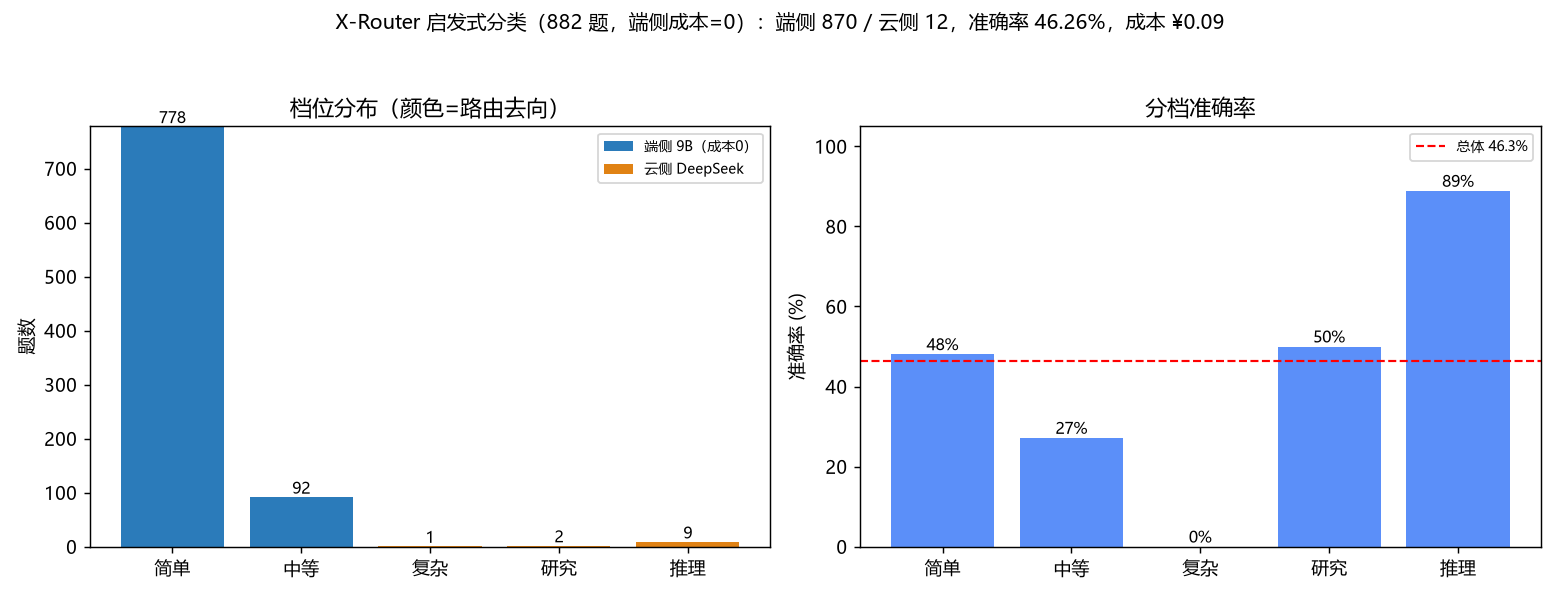
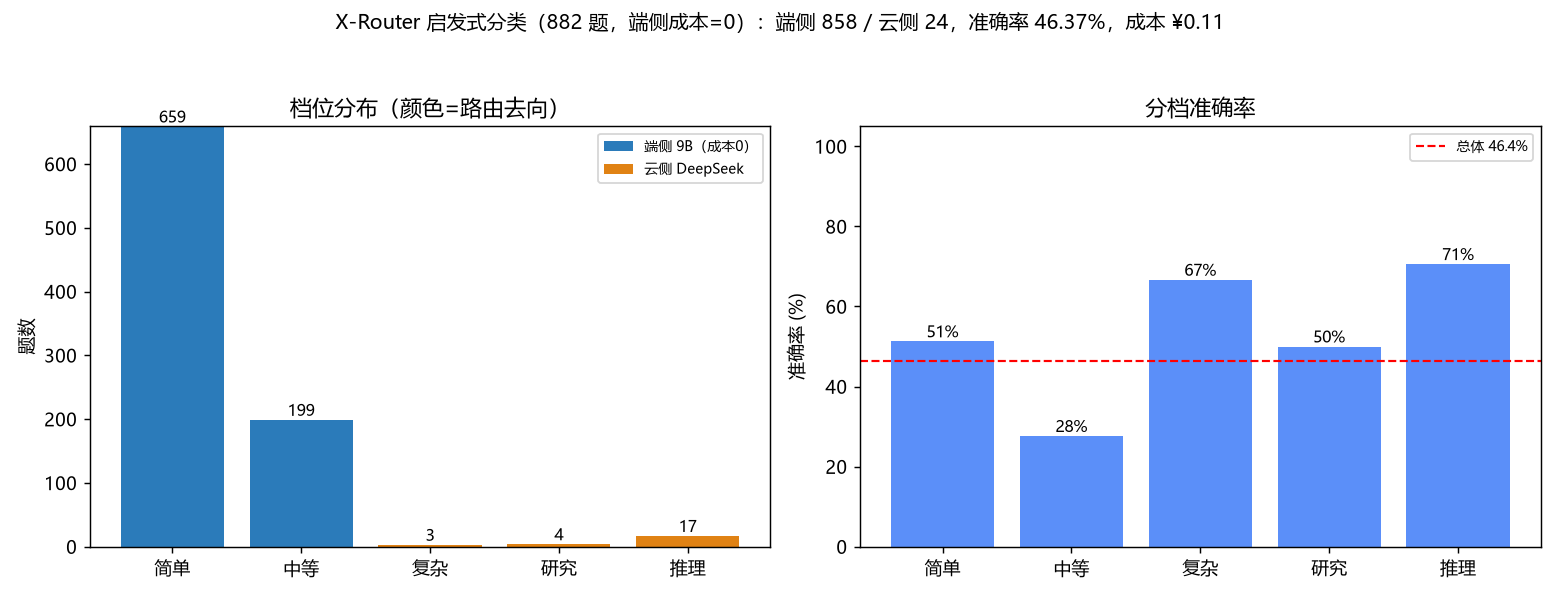
fix(xrouter): heuristic/classifier input origin_query -> prompt (LLMRouterBench convention)

diff --git a/tools/eval_3model_full.py b/tools/eval_3model_full.py
@@ -78,7 +78,9 @@ def main() -> None:
         key = (r.dataset_id, r.record_index)
         qs[key][r.model_name] = r
         if r.model_name == CLOUD_MODEL:
-            meta[key] = r.origin_query or r.prompt
+            # LLMRouterBench 路由基线统一用 record.prompt（完整题干+选项）作为路由输入；
+            # origin_query 对 MCQ 只是题干（缺选项），会低估长度/难度。启发式据此重新评估。
+            meta[key] = r.prompt or r.origin_query
         if (r.category or "").strip():
             cat[key] = r.category.strip()
 

diff --git a/tools/run_xrouter_classifier.py b/tools/run_xrouter_classifier.py
@@ -111,7 +111,8 @@ def load_questions():
     records = [r for r in loader.load_all_records() if r.model_name == CANONICAL_MODEL]
     seen = {}
     for r in records:
-        seen.setdefault((r.dataset_id, r.record_index), r.origin_query or r.prompt)
+        # LLMRouterBench 路由基线统一用 record.prompt（完整题干+选项）作分类输入
+        seen.setdefault((r.dataset_id, r.record_index), r.prompt or r.origin_query)
     return seen
 
 

diff --git a/tools/eval_device_llm_router_3model.py b/tools/eval_device_llm_router_3model.py
@@ -61,7 +61,7 @@ def load_questions(records):
             continue
         key = (r.dataset_id, r.record_index)
         questions[key][r.model_name] = r
-        meta.setdefault(key, r.origin_query or r.prompt)
+        meta.setdefault(key, r.prompt or r.origin_query)
     return questions, meta
 
 

diff --git a/docs/edge_router_3model_eval_report.md b/docs/edge_router_3model_eval_report.md
@@ -69,7 +69,7 @@
 | 方案 | 准确率 | 总成本 (¥) | n | 备注 |
 |---|---|---|---|---|
 | **X-Router（4B 分类器，MEDIUM）** | **58.62%** | **3.245** | 882 | 端侧 527 / 云侧 355 |
-| X-Router（启发式分类器，MEDIUM） | 46.26% | 0.086 | 882 | 端侧 870 / 云侧 12 |
+| X-Router（启发式分类器，MEDIUM） | 46.37% | 0.1095 | 882 | 端侧 858 / 云侧 24 |
 | 端侧 only（9B） | 45.92% | 0.000 | 882 | |
 | 端侧 only（4B） | 61.11% | 0.000 | 882 | |
 | 端侧 only（8B） | 56.46% | 0.000 | 882 | |
@@ -107,8 +107,8 @@
 | mmlu | 182 | 31.32% | 0.169 | 148 | 34 |
 | mmlupro | 150 | 49.33% | 0.551 | 78 | 72 |
 
-启发式分数据集（对照）：arcc 38.67%/¥0、gpqa 30.00%/¥0.037、gsm8k 86.00%/¥0.004、
-math500 94.00%/¥0、mmlu 19.78%/¥0.002、mmlupro 28.00%/¥0.044。
+启发式分数据集（对照，prompt 口径）：arcc 38.67%/¥0.008（145/5）、gpqa 30.00%/¥0.039（143/7）、
+gsm8k 86.00%/¥0.004（99/1）、math500 94.00%/¥0（150/0）、mmlu 20.33%/¥0.004（178/4）、mmlupro 28.00%/¥0.054（143/7）。
 
 ### 4.4 帕累托图（端侧成本=0）
 
@@ -118,7 +118,11 @@ math500 94.00%/¥0、mmlu 19.78%/¥0.002、mmlupro 28.00%/¥0.044。
 
 ### 4.5 分类分解图（Q1 启发式 / Q2 LLM / 对比）
 
-**Q1 — 启发式分类**（把 882 题按词数/关键词/问号数分档）：
+**Q1 — 启发式分类**（把 882 题按词数/关键词/问号数分档）。输入口径已修正为 `record.prompt`，
+与 LLMRouterBench 路由基线（RouteLLM/RouterDC 等均用 `prompt`）一致——此前误用 `origin_query`，对 MCQ 漏掉选项、低估长度：
+
+> 档位分布（prompt 口径）：`SIMPLE:659, MEDIUM:199, COMPLEX:3, RESEARCH:4, REASONING:17`。
+> 分档准确率：SIMPLE 51.3%、MEDIUM 27.6%、COMPLEX 66.7%、RESEARCH 50.0%、REASONING 70.6%。
 
 ![启发式分类分解](../results/xrouter_heur_classification.png)
 
@@ -133,10 +137,10 @@ math500 94.00%/¥0、mmlu 19.78%/¥0.002、mmlupro 28.00%/¥0.044。
 ## 5. 结论与说明（端侧成本=0）
 
 1. **4B 分类器相对启发式显著提升，且不增加端侧成本**：端侧分类器（4B）本身成本 0，
-   它把 355/882 道真题路由到云侧，准确率从启发式的 46.26% 升到 **58.62%（+12.4pp）**；
-   成本从 ¥0.086 升到 ¥3.245，多花的全是「把难题甩云」的 DeepSeek 调用费——即**用云成本换质量**。
-2. **启发式分类器近乎免费但质量最差**：启发式按词数/关键词把 870/882 判成 SIMPLE/MEDIUM，几乎全留本地 9B
-   → 46.26% / ¥0.086。它把 mmlu（180 题）、arcc（150 题）等知识类 MCQ 全判「简单」留本地，而 9B 恰不擅长这类题
+   它把 355/882 道真题路由到云侧，准确率从启发式的 46.37% 升到 **58.62%（+12.2pp）**；
+   成本从 ¥0.1095 升到 ¥3.245，多花的全是「把难题甩云」的 DeepSeek 调用费——即**用云成本换质量**。
+2. **启发式分类器近乎免费但质量最差**：启发式按词数/关键词把 858/882 判成 SIMPLE/MEDIUM，绝大多数留本地 9B
+   → 46.37% / ¥0.1095。它把 mmlu（178/182）、arcc（145/150）等知识类 MCQ 判「简单/中等」留本地，而 9B 恰不擅长这类题
    （mmlu 19.78%、arcc 38.67%），是启发式失分主因。
 3. **X-Router 距静态路由上界差距明显**：X-Router LLM（58.62% / ¥3.245）远低于 **MaxExpert（84.13% / ¥3.708）**、
    **CategoryExpert（84.35% / ¥3.583）** 与 **Oracle（93.99% / ¥0.967）**，也低于云侧 only（82.20% / ¥4.743）。
